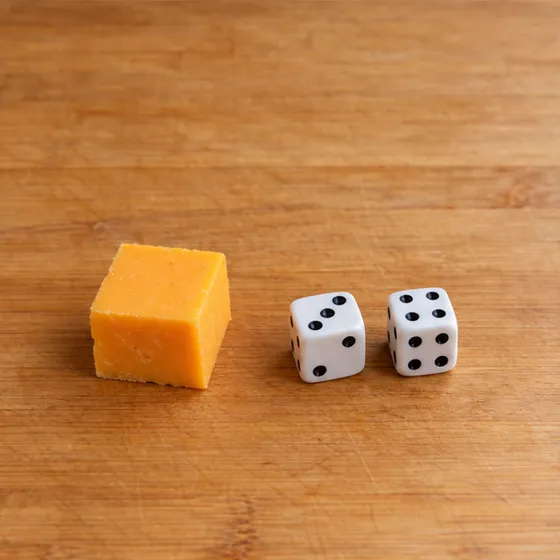
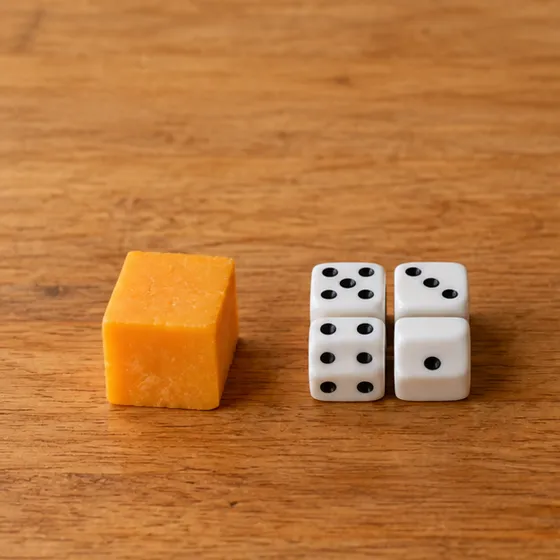
Make iOS portion guides actionable with direct quantities

diff --git a/js/nutrition/food-portion-guide-data.js b/js/nutrition/food-portion-guide-data.js
@@ -1,16 +1,16 @@
-// Visual examples only: these do not change a logged amount or imply exact food density.
+// Approximate visual estimates; these never change a logged portion automatically.
 export const FOOD_PORTION_GUIDES = [
- {title:'Cooked meat',amount:'A deck of cards ≈ 85 g (3 oz)',copy:'Cooked meat',index:0},
- {title:'Cooked rice',amount:'A tennis ball ≈ ½ cup',copy:'Cooked rice',index:1},
- {title:'Hard cheese',amount:'Compare a small piece with two dice',copy:'Hard cheese',index:2},
- {title:'Peanut butter',amount:'Use a level tablespoon to measure',copy:'Ping-pong ball shown for scale',index:3},
- {title:'Rice & a fist',amount:'A closed adult fist ≈ 1 cup',copy:'Hand sizes vary · approximately 250 mL',index:4},
- {title:'Takeaway container',amount:'Compare a 2-cup (500 mL) portion',copy:'Container capacities vary: check the size',index:5},
- {title:'Butter',amount:'1 teaspoon ≈ a small die',copy:'Use a level 5 mL measuring spoon',index:6},
- {title:'Cheese & batteries',amount:'Compare cheese with two 9V batteries',copy:'A rough size reference, not an exact weight',index:7},
- {title:'Cooked pasta',amount:'A closed fist ≈ 1 cup of pasta',copy:'Pasta shapes and hand sizes vary',index:8},
- {title:'Vegetables',amount:'A closed fist ≈ 1 cup of vegetables',copy:'Loose pieces and tightly packed cups differ',index:9},
- {title:'Nuts',amount:'A small handful ≈ ¼ cup',copy:'Hands and nut shapes vary',index:10},
- {title:'Cooked fish',amount:'A deck of cards ≈ 85 g (3 oz)',copy:'Cooked fish · thickness matters',index:11},
- {title:'Measuring spoons',amount:'1 tablespoon = 3 teaspoons',copy:'Level measures: 15 mL and 5 mL',index:12}
+ {title:'Cooked meat',amount:'85 g (3 oz) cooked meat ≈ a deck of cards',copy:'Match the length, width and thickness',index:0},
+ {title:'Cooked rice',amount:'½ cup cooked rice ≈ a tennis ball',copy:'About 125 mL · compare the whole mound',index:1},
+ {title:'Hard cheese',amount:'28 g (1 oz) hard cheese ≈ 4 dice',copy:'Match the combined size of all four dice',index:2},
+ {title:'Peanut butter',amount:'2 tbsp peanut butter ≈ a ping-pong ball',copy:'About 30 mL · compare the whole mound',index:3},
+ {title:'Rice & a fist',amount:'1 cup cooked rice ≈ a closed fist',copy:'About 250 mL · adult hand sizes vary',index:4},
+ {title:'Takeaway container',amount:'2 cups rice ≈ a full 500 mL box',copy:'Check that your container holds 500 mL',index:5},
+ {title:'Butter',amount:'1 tsp butter ≈ one small die',copy:'About 5 mL · compare all three dimensions',index:6},
+ {title:'Cheese & a matchbox',amount:'30 g hard cheese ≈ a small matchbox',copy:'About 1 oz · match the thickness too',index:7},
+ {title:'Cooked pasta',amount:'1 cup cooked pasta ≈ a closed fist',copy:'About 250 mL · pasta shapes and hands vary',index:8},
+ {title:'Vegetables',amount:'1 cup vegetables ≈ a closed fist',copy:'About 250 mL · loosely filled, not compressed',index:9},
+ {title:'Nuts',amount:'28 g (1 oz) nuts ≈ one loose handful',copy:'A small handful · adult hand sizes vary',index:10},
+ {title:'Cooked fish',amount:'85 g (3 oz) cooked fish ≈ a deck of cards',copy:'Match the length, width and thickness',index:11},
+ {title:'Measuring spoons',amount:'1 tbsp oil = 3 tsp (15 mL)',copy:'Standard measuring spoons: 15 mL and 5 mL',index:12}
 ];

diff --git a/js/nutrition/food-portion-editor.js b/js/nutrition/food-portion-editor.js
@@ -75,7 +75,7 @@ export function restoreFoodAmount(root,food,index,quantity) {
 export function openPortionGuide(root) {
  root.querySelector('.food-portion-guide')?.remove();
  const dialog=document.createElement('dialog');dialog.className='food-portion-guide';dialog.setAttribute('aria-label','Portion guide');
- dialog.innerHTML=`<header><h3>Portion guide</h3><button type="button" data-guide-close aria-label="Close portion guide">×</button></header><div class="food-guide-cards" tabindex="0" aria-label="Swipe through portion examples">${guides.map(g=>`<article><div class="food-guide-photo" role="img" aria-label="${escape(g.title)} portion comparison" style="background-image:url(assets/food/guide-${g.index}.webp)"><h4>${g.amount}</h4><small>${g.copy}</small></div></article>`).join('')}</div><nav class="food-guide-pager" aria-label="Portion examples">${guides.map((g,i)=>`<button type="button" data-guide-page="${i}" aria-label="Show ${g.title}" aria-pressed="${i===0}"></button>`).join('')}</nav><p class="food-guide-disclaimer">Approximate sizes. Use a scale or measuring spoon for accuracy.</p>`;
+ dialog.innerHTML=`<header><h3>Portion guide</h3><button type="button" data-guide-close aria-label="Close portion guide">×</button></header><div class="food-guide-cards" tabindex="0" aria-label="Swipe through portion examples">${guides.map(g=>`<article><div class="food-guide-photo" role="img" aria-label="${escape(g.amount)}. ${escape(g.copy)}" style="background-image:url(assets/food/guide-${g.index}.webp)"><h4>${g.amount}</h4><small>${g.copy}</small></div></article>`).join('')}</div><nav class="food-guide-pager" aria-label="Portion examples">${guides.map((g,i)=>`<button type="button" data-guide-page="${i}" aria-label="Show ${g.title}" aria-pressed="${i===0}"></button>`).join('')}</nav><p class="food-guide-disclaimer">Visual estimates for measuring without a scale. Food, hand and object sizes vary.</p>`;
  root.appendChild(dialog);
  const track=dialog.querySelector('.food-guide-cards');
  const buttons=[...dialog.querySelectorAll('[data-guide-page]')];

diff --git a/docs/ios-food-editor-trial.md b/docs/ios-food-editor-trial.md
@@ -29,3 +29,9 @@ The offline guide now contains 13 examples: meat/cards, rice/tennis ball, cheese
 Source portions now carry count, item noun and size metadata where the source label supports it. The editor shows examples such as “2 large eggs · 100 g” and “2 slices · 70 g”. Weight entry can display an approximate item equivalent from a known source serving. Source egg sizes appear as buttons; changing the egg size preserves the number of eggs and changes nutrition accordingly. Switching between mass and count still uses measured weights. Multi-item source portions gain a normalized one-item option without reordering old saved portions.
 
 For plain whole/boiled/poached/raw eggs with mass-only data, a large-egg reference of 50 g edible weight may be supplied and is marked “estimated”; source-provided weights always win. The reference comes from USDA Nutritive Value of Foods, Table 9 (https://www.ars.usda.gov/ARSUserFiles/80400525/data/hg72/hg72_2002.pdf). No generic whole-egg conversion is generated for egg whites/yolks, recipes, fried mass-only records or substitutes.
+
+## Direct portion equivalents
+
+All 13 guide cards now name the food, amount and visual reference together. Captions explain matching thickness, loose filling or container capacity. Four photos were replaced so cheese/dice, cheese/matchbox, peanut butter/ball and the 500 mL carton agree with their labels. The guide remains approximate and never changes the selected food amount.
+
+References: Ohio State Extension (https://livesmartohio.osu.edu/food/homonai-3osu-edu/how-to-perceive-your-portions/), NHS cheese/matchbox guidance (https://www.myhealthlondon.nhs.uk/resources/internal/dairy-foods/), National Jewish Health peanut butter, meat, nuts and butter comparisons (https://www.nationaljewish.org/education/health-information/nutrition/healthy-weight/serving-size-vs-portion-size).
